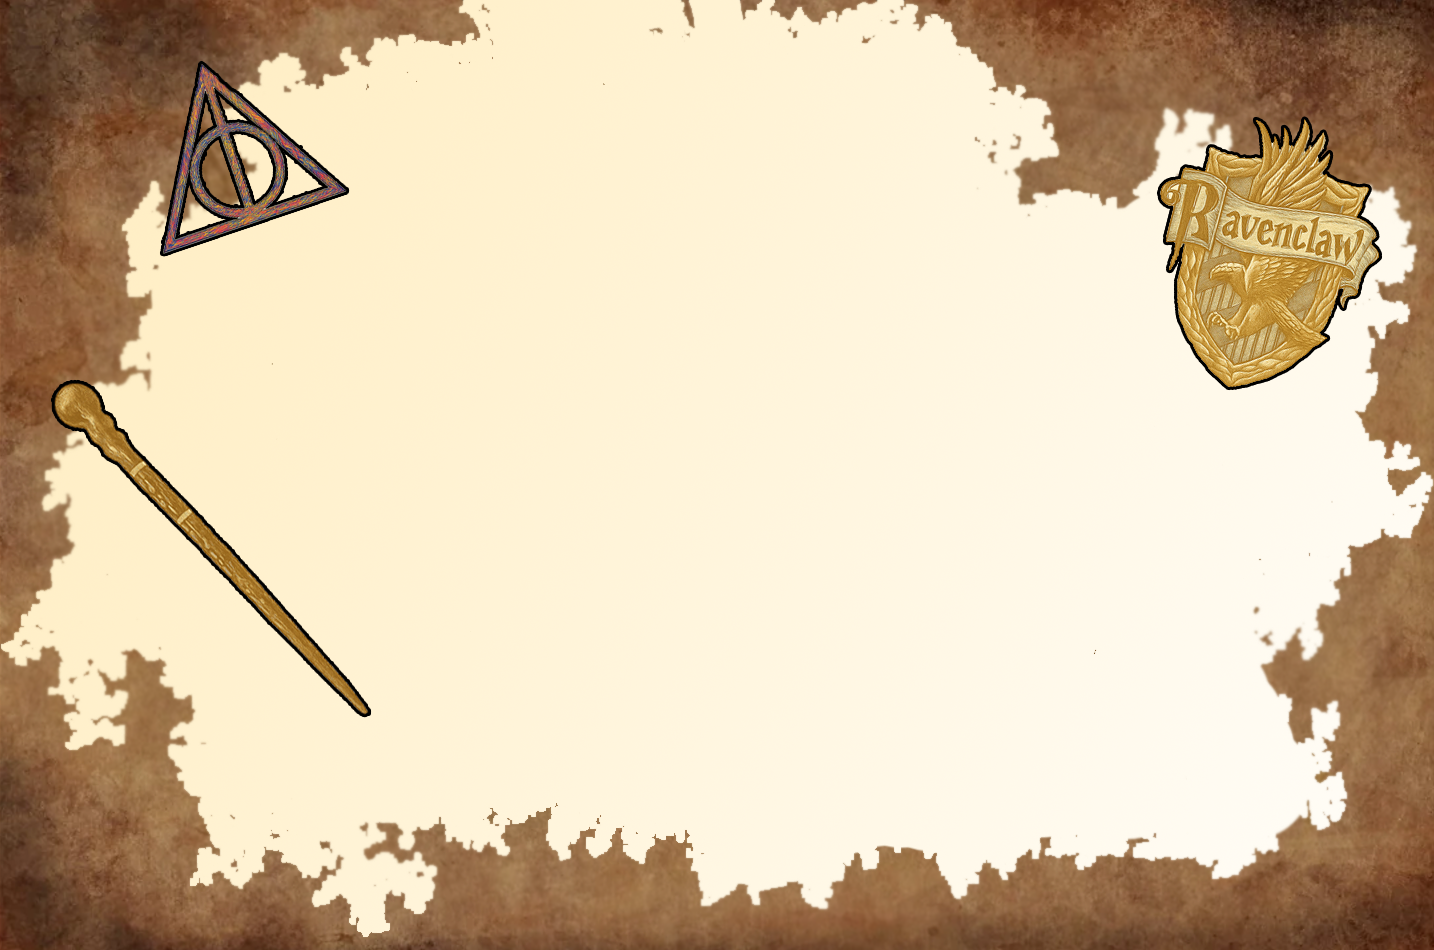
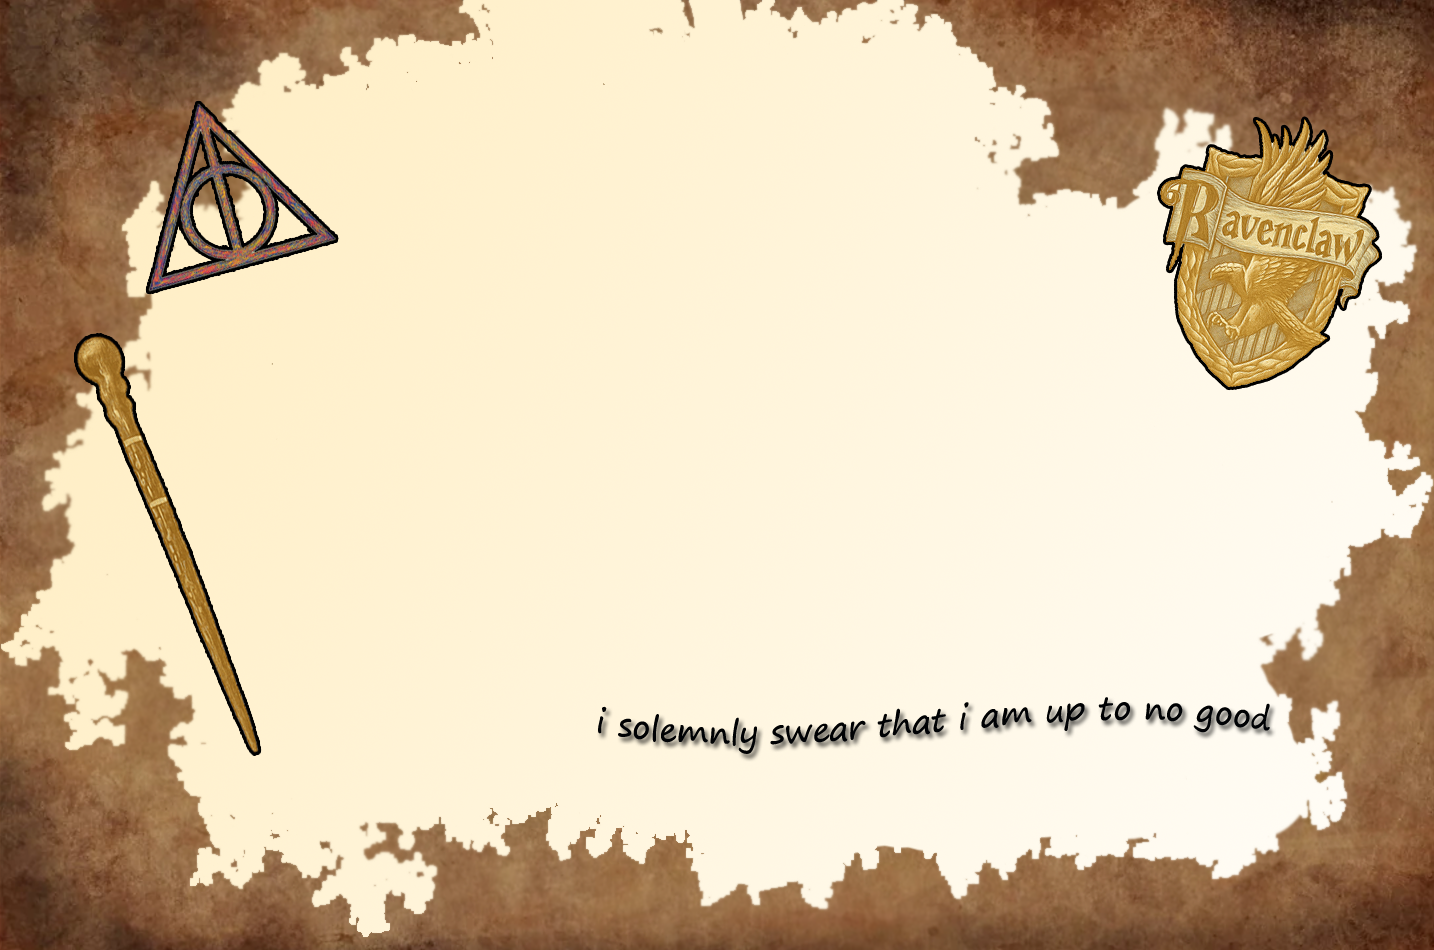
fondo

diff --git a/assets/css/main.scss b/assets/css/main.scss
@@ -9,6 +9,6 @@
 
 body {
   background: 
-    url("/assets/images/fondo2.png") no-repeat center center fixed;
+    url("/assets/images/fondo.png") no-repeat center center fixed;
   background-size: cover;
 }
